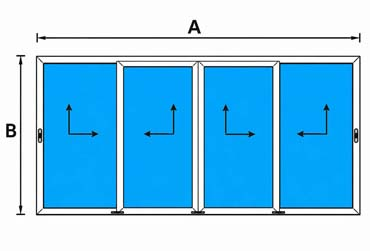
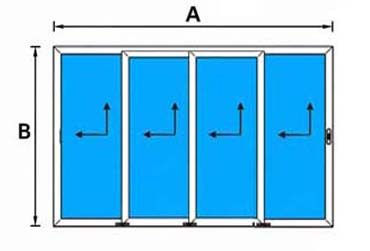
brisanje svega za dugme install 2

diff --git a/app/page.tsx b/app/page.tsx
@@ -5187,26 +5187,37 @@ if (requiredDims.includes("e") && !p.e) missing.push("E");
 
       <tbody>
         {(worklistResults[index] || [])
-          .filter((r: any) => {
-            if (r.element === "Ukupna cena" || r.element === "Cena") return false;
+.filter((r: any) => {
+  if (
+    r.element === "Ukupna cena" ||
+    r.element === "Cena"
+  ) {
+    return false;
+  }
 
-            const isAluSpojnica =
-              r.element.includes("Spojnica") ||
-              r.element.includes("(kom)");
+  const isAluSpojnica =
+    r.element.includes("Spojnica") ||
+    r.element.includes("(kom)");
 
-            if (
-              isAluSpojnica &&
-              String(p.vrsta_stolarije).toUpperCase() !== "ALU"
-            ) {
-              return false;
-            }
+  if (
+    isAluSpojnica &&
+    String(p.vrsta_stolarije).toUpperCase() !== "ALU"
+  ) {
+    return false;
+  }
 
-            if (r.element === "Roletna" && !p.roletna) return false;
-            if (r.element === "Komarnik" && !p.komarnik) return false;
-            if (r.element === "Okov" && !p.okov) return false;
+  if (r.element === "Roletna" && !p.roletna) return false;
+  if (r.element === "Komarnik" && !p.komarnik) return false;
+  if (r.element === "Okov" && !p.okov) return false;
 
-            return Number(r.S) > 0 || Number(r.V) > 0 || isAluSpojnica;
-          })
+  return (
+    Number(r.S) > 0 ||
+    Number(r.V) > 0 ||
+    Number(r.kom) > 0 ||
+    Number(r.cena) > 0 ||
+    isAluSpojnica
+  );
+})
           .map((r: any, ri: number) => (
             <tr key={ri}>
               <td className="border p-1 font-semibold">{r.element}</td>